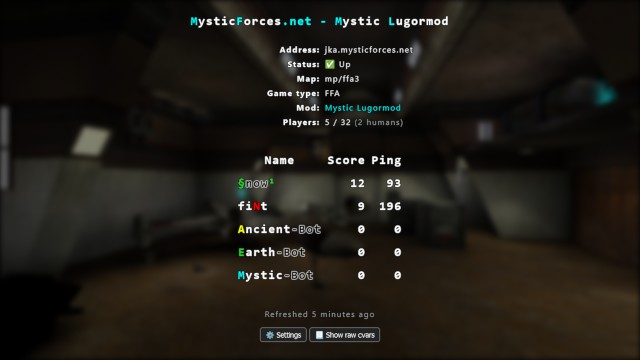
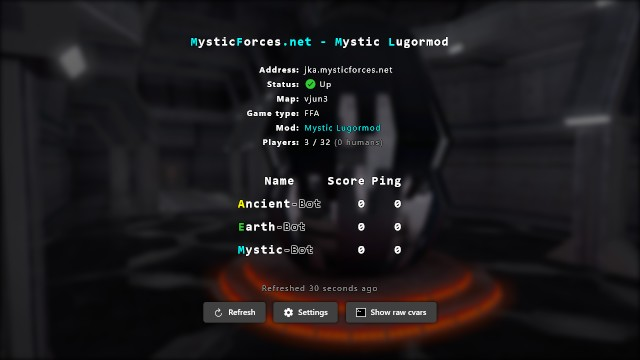
Tweaked UI

diff --git a/public/style.css b/public/style.css
@@ -28,7 +28,7 @@ body {
 }
 
 body.landing-page, body.page-not-found {
-    background: #222;
+    background: #181818;
 }
 
 body.page-not-found img {
@@ -70,23 +70,19 @@ a.button {
     color: white;
     display: block;
     width: 200px;
-    border: 1px solid white;
+    box-shadow: 0 0 5px black;
     border-radius: 5px;
-    background: #444;
+    background: #404040;
     margin: 20px auto;
     padding: 10px;
 }
 
-a.button:hover {
-    box-shadow: 0 0 5px white;
-    background: #555;
+a.button:hover, a.button:focus {
+    background: #606060;
 }
 
 a.button:active {
-    background: #444;
-    box-shadow: 0 0 5px black, 0 0 5px black inset;
-    position: relative;
-    top: 2px;
+    background: #202020;
 }
 
 .info {
@@ -96,6 +92,10 @@ a.button:active {
     grid-gap: 5px;
     margin: 2em auto;
     text-align: left;
+}
+
+.status img {
+    vertical-align: bottom;
 }
 
 .bonus-info, .mono.bonus-info {
@@ -189,7 +189,11 @@ td:first-child {
 }
 
 #settings-footer {
-    margin-bottom: 2em;
+    margin-bottom: 1em;
+}
+
+#settings-footer button {
+    margin: 0 5px 15px;
 }
 
 #setting-grid, #cvar-grid {
@@ -203,7 +207,7 @@ td:first-child {
 
 #cvar-grid {
     text-align: center;
-    max-height: calc(100vh - 200px);
+    max-height: calc(100vh - 220px);
     overflow-y: scroll;
     background-color: rgba(0, 0, 0, 0.67);
     border: 10px solid transparent;
@@ -231,23 +235,45 @@ label {
     text-align: center;
 }
 
-#close-cvars {
+#close-settings, #close-cvars {
     margin-top: 32px;
 }
 
 select, button {
     padding: 5px 10px;
     color: white;
-    background: #222;
-    border: 1px solid #808080;
+    background: #404040;
+    border: none;
     border-radius: 5px;
-    font-size: 14px;
+    box-shadow: 0 0 5px black;
+    font-family: -apple-system, BlinkMacSystemFont, "Segoe UI Adjusted", "Segoe UI", "Liberation Sans", sans-serif;
+    font-size: 16px;
+    line-height: 20px;
     max-width: 280px;
     cursor: pointer;
 }
 
-select:hover, button:hover {
-    background: #333;
+select:hover, button:hover, select:focus, button:focus {
+    background: #606060;
+}
+
+button:active {
+    background: #202020;
+    color: #c0c0c0;
+}
+
+button:active img {
+    opacity: 75%;
+}
+
+button {
+    font-weight: 600;
+    padding: 10px 20px;
+}
+
+button img {
+    vertical-align: -5px;
+    margin-right: 5px;
 }
 
 input[type=range], input[type=color] {
@@ -258,8 +284,8 @@ input[type=range], input[type=color] {
     opacity: 50%;
 }
 
-.form-button-span {
-    text-align: right;
+#settings .title img, #cvars .title img {
+    vertical-align: middle;
 }
 
 @media (min-width: 640px) {
@@ -272,9 +298,12 @@ input[type=range], input[type=color] {
         line-height: 24px;
     }
 
+    .status img {
+        width: 24px;
+        height: 24px;
+    }
+
     .info {
-        grid-template-columns: 50% 50%;
-        width: auto;
         grid-gap: 5px 10px;
     }
 
@@ -285,6 +314,15 @@ input[type=range], input[type=color] {
 
     th.score, th.ping {
         font-size: 24px;
+    }
+
+    #settings .title img, #cvars .title img {
+        width: 32px;
+        height: 32px;
+    }
+
+    #settings .title {
+        margin-bottom: 2em;
     }
 
     #setting-grid, #cvar-grid {
@@ -299,7 +337,7 @@ input[type=range], input[type=color] {
 
     #cvar-grid {
         text-align: left;
-        max-height: calc(100vh - 210px); /* 10px shorter in desktop mode */
+        max-height: calc(100vh - 230px); /* 10px shorter in desktop mode */
     }
 
     #cvar-grid label {

diff --git a/src/template.php b/src/template.php
@@ -39,11 +39,11 @@
                 <label>Address:</label> <span><?= htmlspecialchars($data['address']); ?></span>
 
                 <label>Status:</label>
-                <span>
+                <span class="status">
                     <?php if ($data['is_up']): ?>
-                        ✅
+                        <img src="<?= ROOT_URL ?>checkmark-circle.svg" width="20" height="20" alt="" aria-hidden="true"/>
                     <?php else: ?>
-                        ❌
+                        <img src="<?= ROOT_URL ?>alert-circle.svg" width="20" height="20" alt="" aria-hidden="true"/>
                     <?php endif; ?>
                     <?= htmlspecialchars($data['status']); ?>
                 </span>
@@ -94,14 +94,25 @@
             <?php endif; ?>
             <p id="refreshed-footer" class="bonus-info"></p>
             <p id="settings-footer">
-                <button id="open-settings">⚙ Settings</button>
+                <button id="refresh-button" onclick="location.reload()">
+                    <img src="<?= ROOT_URL ?>refresh.svg" width="20" height="20" alt="" aria-hidden="true"/> Refresh
+                </button>
+                <button id="open-settings">
+                    <img src="<?= ROOT_URL ?>settings-sharp.svg" width="20" height="20" alt="" aria-hidden="true"/> Settings
+                </button>
                 <?php if (isset($data['cvars'])): ?>
-                    <button id="open-cvars">📃 Show raw cvars</button>
+                    <button id="open-cvars">
+                        <img src="<?= ROOT_URL ?>terminal-20x20.png" srcset="<?= ROOT_URL ?>terminal-40x40.png 2x" width="20" height="20" alt="" aria-hidden="true"/>
+                        Show raw cvars
+                    </button>
                 <?php endif; ?>
             </p>
         </div>
         <div id="settings">
-            <p class="title mono">⚙ Settings</p>
+            <p class="title mono">
+                <img src="<?= ROOT_URL ?>settings-sharp.svg" width="24" height="24" alt="" aria-hidden="true"/>
+                Settings
+            </p>
             <p id="setting-grid">
                 <label for="auto-refresh-select">Auto-refresh:</label>
                 <select id="auto-refresh-select">
@@ -136,21 +147,28 @@
                 
                 <label for="background-color-input">Background color:</label>
                 <input id="background-color-input" type="color" />
-
-                <span></span>
-                <span class="form-button-span"><button id="close-settings">Close settings</button></span>
             </p>
+            <button id="close-settings">
+                <img src="<?= ROOT_URL ?>close-circle.svg" width="20" height="20" alt="" aria-hidden="true"/>
+                Close settings
+            </button>
         </div>
         <?php if (isset($data['cvars'])): ?>
             <div id="cvars">
-                <p class="title mono">📃 Raw cvars</p>
+                <p class="title mono">
+                    <img src="<?= ROOT_URL ?>terminal-sharp.svg" width="24" height="24" alt="" aria-hidden="true"/>
+                    Raw cvars
+                </p>
                 <div id="cvar-grid">
                     <?php foreach ($data['cvars'] as $cvar_name => $cvar_value): ?>
                         <label><?= htmlspecialchars($cvar_name) ?></label>
                         <span><?= htmlspecialchars($cvar_value) ?></span>
                     <?php endforeach; ?>
                 </div>
-                <button id="close-cvars">Close raw cvars</button>
+                <button id="close-cvars">
+                    <img src="<?= ROOT_URL ?>close-circle.svg" width="20" height="20" alt="" aria-hidden="true"/>
+                    Close raw cvars
+                </button>
             </div>
         <?php endif; ?>
         <script src="<?= ROOT_URL ?>main.js?version=1"></script>

diff --git a/README.md b/README.md
@@ -23,6 +23,7 @@ as well as the player list.
     - User-configurable blur and opacity, to improve the readability,
     - Uses `default.jpg` when the map name doesn't match a known levelshot
     - You can add your own backgrounds in the `levelshots` folder, and they should be automatically detected
+- Responsive layout
 - Optional auto-refresh (user-configurable)
 
 [![Settings screenshot thumbnail](doc/settings-thumbnail.jpg)](doc/settings.jpg)
@@ -58,3 +59,4 @@ The code in this repository is released under the [MIT License](LICENSE.txt).
 - PHP / HTML / CSS / JS / Levelshots by [**Slash**](https://github.com/slash-fr)
 - `default.jpg` is based on the following photo (CC0 Public Domain): https://pxhere.com/en/photo/57901  
   → Slightly tweaked by Slash
+- Some icons are based on the [**ionicons pack**](https://ionic.io/ionicons) (MIT licensed).
